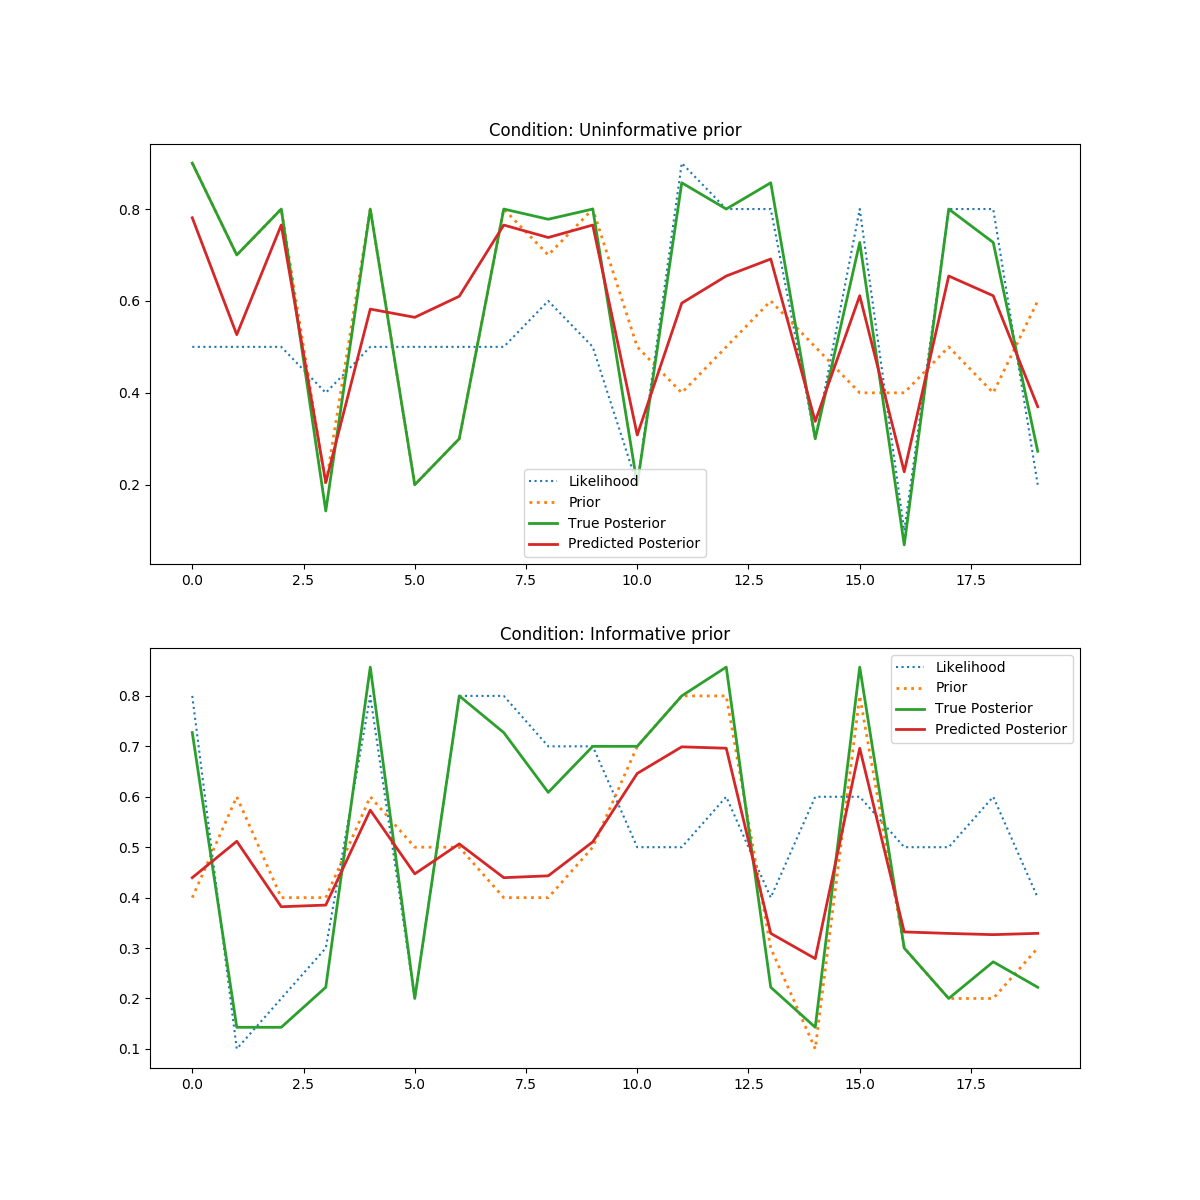
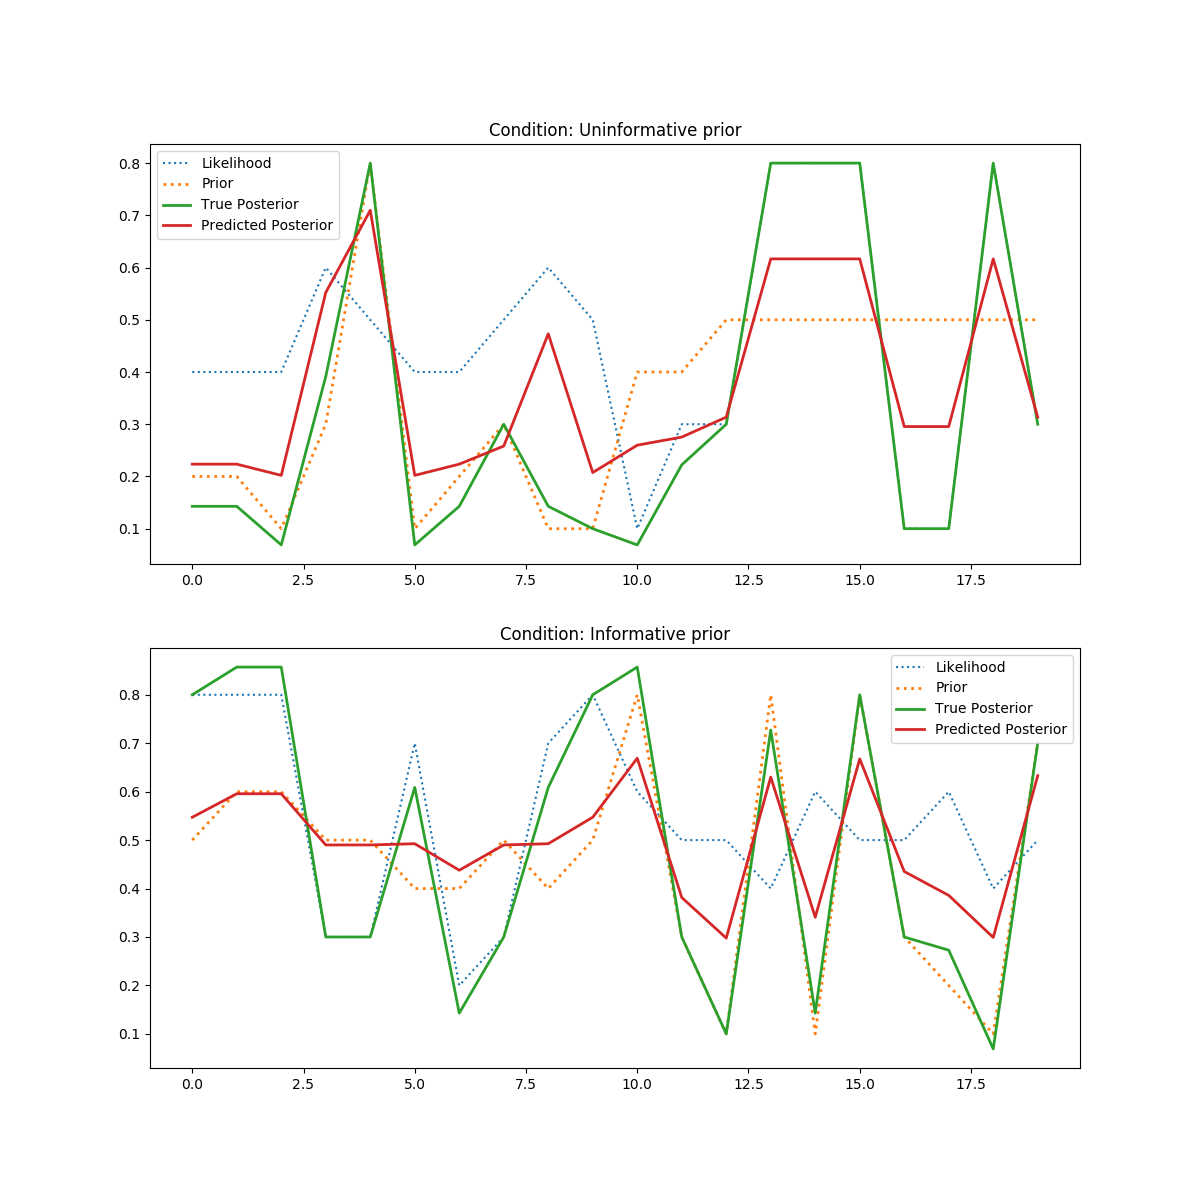
Add in grad-log details

diff --git a/generative.py b/generative.py
@@ -61,13 +61,16 @@ class Urn ():
         logq = yval.view(1,-1).data.numpy()
         logp = target.view(1,-1).data.numpy()
         q = np.exp(logq)
-        gradq = -np.array([[1.0,-1.0], [-1.0,1.0]])
+        #gradq = -np.array([[1.0,-1.0], [-1.0,1.0]])
+        mu = np.exp(logq)[0,0]
+        gradlogq = np.array([[1.0/(mu - 1.0), 1/mu], [1.0/(1.0 - mu), -1.0/mu]])
+        #print("gradlogq", mu, gradq)
         
         count = 0
         ELBO_grad = 0
         while count < nsamps:
             s = np.reshape(np.random.multinomial(1, np.reshape(q, (-1))), (-1,1))
-            ELBO_grad += np.dot(gradq,s)*(np.dot(logp, s) - np.dot(logq, s))
+            ELBO_grad += np.dot(gradlogq,s)*(np.dot(logp, s) - np.dot(logq, s))
 
             count += 1
             

diff --git a/main.py b/main.py
@@ -13,22 +13,22 @@ import matplotlib.pyplot as plt
 import sys
 import json
 
-N_part = sys.argv[1]
-#N_part = 301
+#N_part = sys.argv[1]
+N_part = 1000
 
 print("********************")
 print("Running participant number ", N_part)
 
 torch.manual_seed(36)
 
-N_epoch = 50
+N_epoch = 30
 sg_epoch = 0
     
 N_blocks = 100
 N_trials = 1
 N_balls = 10
-testN_blocks = 10
-valN_blocks = 10
+testN_blocks = 30
+valN_blocks = 30
 
 
 fac1 = 10#144
